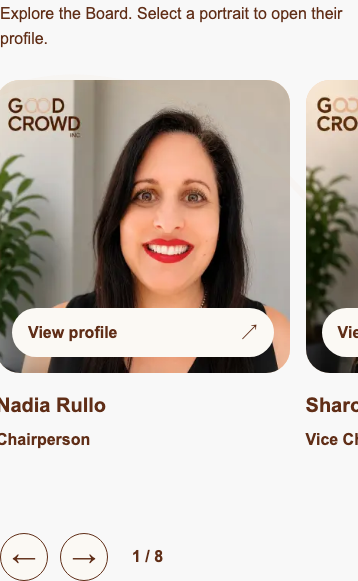
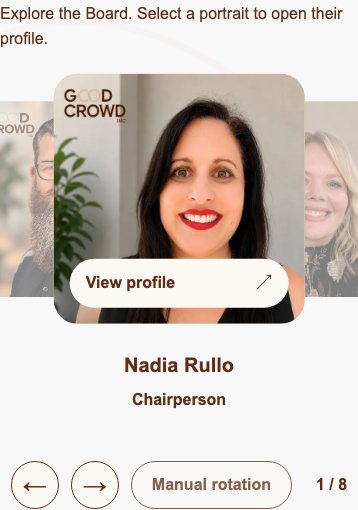
feat: center director carousel and rotate every three seconds

diff --git a/components/sections/board-carousel.tsx b/components/sections/board-carousel.tsx
@@ -1,14 +1,48 @@
 "use client";
 
 import Image from "next/image";
-import { useEffect, useId, useRef, useState } from "react";
+import { useEffect, useId, useRef, useState, useSyncExternalStore } from "react";
 import type { BoardMember } from "@/lib/site-content";
 import styles from "./board-carousel.module.css";
+
+function subscribeReducedMotion(callback: () => void) {
+  const media = window.matchMedia("(prefers-reduced-motion: reduce)");
+  media.addEventListener("change", callback);
+  return () => media.removeEventListener("change", callback);
+}
+const getReducedMotion = () => window.matchMedia("(prefers-reduced-motion: reduce)").matches;
+const getServerReducedMotion = () => true;
 
 export function BoardCarousel({ members }: { members: BoardMember[] }) {
   const [active, setActive] = useState(0);
   const [selected, setSelected] = useState<BoardMember | null>(null);
   const track = useRef<HTMLUListElement>(null);
+  const carousel = useRef<HTMLDivElement>(null);
+  const touchStart = useRef<number | null>(null);
+  const [paused, setPaused] = useState(false);
+  const [hovered, setHovered] = useState(false);
+  const [focused, setFocused] = useState(false);
+  const [inView, setInView] = useState(false);
+  const [pageHidden, setPageHidden] = useState(false);
+  const reducedMotion = useSyncExternalStore(subscribeReducedMotion, getReducedMotion, getServerReducedMotion);
+  const rotating = !paused && !hovered && !focused && !selected && !reducedMotion && inView && !pageHidden;
+
+  useEffect(() => {
+    const observer = new IntersectionObserver(([entry]) => setInView(entry.isIntersecting), { threshold: 0.35 });
+    if (carousel.current) observer.observe(carousel.current);
+    const onVisibility = () => setPageHidden(document.hidden);
+    document.addEventListener("visibilitychange", onVisibility);
+    return () => {
+      observer.disconnect();
+      document.removeEventListener("visibilitychange", onVisibility);
+    };
+  }, []);
+
+  useEffect(() => {
+    if (!rotating || members.length < 2) return;
+    const timer = window.setInterval(() => setActive(index => (index + 1) % members.length), 3000);
+    return () => window.clearInterval(timer);
+  }, [rotating, members.length, active]);
   const dialog = useRef<HTMLDialogElement>(null);
   const opener = useRef<HTMLButtonElement | null>(null);
   const id = useId();
@@ -27,64 +61,81 @@ export function BoardCarousel({ members }: { members: BoardMember[] }) {
   }, [selected]);
 
   function goTo(index: number) {
-    const list = track.current;
-    const card = list?.children[index] as HTMLElement | undefined;
-    if (!list || !card) return;
-    list.scrollTo({
-      left: card.offsetLeft,
-      behavior: window.matchMedia("(prefers-reduced-motion: reduce)").matches ? "instant" : "smooth",
-    });
+    setActive(index);
+  }
+
+  function positionFor(index: number) {
+    if (index === active) return "center";
+    if (index === (active - 1 + members.length) % members.length) return "left";
+    if (index === (active + 1) % members.length) return "right";
+    return "hidden";
   }
 
   if (!members.length) return null;
 
   return (
-    <div className={styles.carousel} role="region" aria-roledescription="carousel" aria-label="Board directors">
+    <div
+      ref={carousel}
+      className={styles.carousel}
+      role="region"
+      aria-roledescription="carousel"
+      aria-label="Board directors"
+      onMouseEnter={() => setHovered(true)}
+      onMouseLeave={() => setHovered(false)}
+      onFocusCapture={() => setFocused(true)}
+      onBlurCapture={(event) => {
+        if (!event.currentTarget.contains(event.relatedTarget)) setFocused(false);
+      }}
+    >
       <p className={styles.hint} id={`${id}-hint`}>Explore the Board. Select a portrait to open their profile.</p>
       <ul
         ref={track}
         id={`${id}-portraits`}
         className={styles.track}
         aria-describedby={`${id}-hint`}
-        onScroll={() => {
-          const list = track.current;
-          if (!list) return;
-          const cards = Array.from(list.children) as HTMLElement[];
-          const closest = cards.reduce((best, card, index) =>
-            Math.abs(card.offsetLeft - list.scrollLeft) < Math.abs(cards[best].offsetLeft - list.scrollLeft) ? index : best, 0);
-          setActive(closest);
+        onTouchStart={(event) => { touchStart.current = event.touches[0].clientX; }}
+        onTouchEnd={(event) => {
+          if (touchStart.current === null) return;
+          const distance = touchStart.current - event.changedTouches[0].clientX;
+          if (Math.abs(distance) > 40) goTo((active + (distance > 0 ? 1 : -1) + members.length) % members.length);
+          touchStart.current = null;
         }}
+        onTouchCancel={() => { touchStart.current = null; }}
         onKeyDown={(event) => {
           if (event.key === "ArrowRight" || event.key === "ArrowLeft" || event.key === "Home" || event.key === "End") {
             event.preventDefault();
             const index = event.key === "Home" ? 0 : event.key === "End" ? members.length - 1 : (active + (event.key === "ArrowRight" ? 1 : -1) + members.length) % members.length;
             goTo(index);
-            (track.current?.children[index]?.querySelector("button") as HTMLButtonElement | null)?.focus({ preventScroll: true });
+            requestAnimationFrame(() => (track.current?.children[index]?.querySelector("button") as HTMLButtonElement | null)?.focus({ preventScroll: true }));
           }
         }}
       >
         {members.map((member, index) => (
-          <li key={member.name} className={styles.card} data-active={index === active}>
+          <li key={member.name} className={styles.card} data-position={positionFor(index)} aria-hidden={positionFor(index) === "hidden"}>
             <button
               type="button"
               className={styles.portrait}
               aria-label={`Open profile for ${member.name}`}
               aria-haspopup="dialog"
+              tabIndex={index === active ? 0 : -1}
               onClick={(event) => { opener.current = event.currentTarget; setSelected(member); }}
             >
-              <Image src={member.image.src} alt={member.image.alt} fill sizes="(max-width: 640px) 82vw, (max-width: 1024px) 50vw, 480px" className={styles.image} />
+              <Image src={member.image.src} alt={member.image.alt} fill sizes="(max-width: 640px) 70vw, 448px" className={styles.image} />
               <span className={styles.openLabel} aria-hidden="true">View profile <span>↗</span></span>
             </button>
-            <h3 className={styles.name}>{member.name}</h3>
-            <p className={styles.role}>{member.role}</p>
-            {member.placeholder && <p className={styles.pending}>Photo coming soon</p>}
           </li>
         ))}
       </ul>
+      <div className={styles.caption} aria-live={rotating ? "off" : "polite"} aria-atomic="true">
+        <h3 className={styles.name}>{members[active].name}</h3>
+        <p className={styles.role}>{members[active].role}</p>
+        {members[active].placeholder && <p className={styles.pending}>Photo coming soon</p>}
+      </div>
       <div className={styles.controls}>
         <button type="button" aria-label="Previous director" aria-controls={`${id}-portraits`} onClick={() => goTo((active - 1 + members.length) % members.length)}>←</button>
         <button type="button" aria-label="Next director" aria-controls={`${id}-portraits`} onClick={() => goTo((active + 1) % members.length)}>→</button>
-        <p role="status" aria-atomic="true" className={styles.count}><span className="sr-only">{members[active].name}, director </span>{active + 1} / {members.length}</p>
+        <button type="button" className={styles.rotation} disabled={reducedMotion} aria-label={paused ? "Resume automatic rotation" : "Pause automatic rotation"} onClick={() => setPaused(value => !value)}>{reducedMotion ? "Manual rotation" : paused ? "Play" : "Pause"}</button>
+        <p aria-live={rotating ? "off" : "polite"} aria-atomic="true" className={styles.count}><span className="sr-only">{members[active].name}, director </span>{active + 1} / {members.length}</p>
       </div>
       <dialog
         ref={dialog}

diff --git a/components/sections/board-carousel.module.css b/components/sections/board-carousel.module.css
@@ -1,8 +1,13 @@
 .carousel { margin-top: 3rem; }
 .hint { margin-bottom: 1.25rem; line-height: 1.6; }
-.track { position: relative; display: flex; align-items: start; gap: 1.5rem; overflow-x: auto; overscroll-behavior-x: contain; scroll-snap-type: x mandatory; padding: .5rem .25rem 1.5rem; margin: 0 -.25rem; list-style: none; scrollbar-color: var(--color-earth) var(--color-sand); scrollbar-width: thin; }
-.track::after { content: ""; flex: 0 0 calc(60% - 1.5rem); }
-.card { flex: 0 0 40%; min-width: 0; scroll-snap-align: start; }
+.track { position: relative; height: clamp(15rem, 42vw, 28rem); margin: 0; padding: 0; list-style: none; isolation: isolate; touch-action: pan-y pinch-zoom; }
+.card { position: absolute; left: 50%; top: 50%; width: min(52%, 28rem); min-width: 0; transform: translate(-50%, -50%); transition: transform 550ms ease, opacity 550ms ease; }
+.card[data-position="center"] { z-index: 3; opacity: 1; }
+.card[data-position="left"] { z-index: 2; opacity: .5; transform: translate(-122%, -50%) scale(.8); }
+.card[data-position="right"] { z-index: 2; opacity: .5; transform: translate(22%, -50%) scale(.8); }
+.card[data-position="hidden"] { visibility: hidden; pointer-events: none; opacity: 0; transform: translate(-50%, -50%) scale(.65); }
+.card:not([data-position="center"]) .openLabel { visibility: hidden; }
+.caption { text-align: center; min-height: 7rem; padding-top: .5rem; }
 .portrait { position: relative; display: block; width: 100%; aspect-ratio: 1; overflow: hidden; border-radius: 1.5rem; background: var(--color-sand); border: 0; cursor: zoom-in; }
 .image { object-fit: contain; transition: transform 300ms ease; }
 .portrait:hover .image, .portrait:focus-visible .image { transform: scale(1.015); }
@@ -10,10 +15,12 @@
 .name { font-size: clamp(1.25rem, 2vw, 1.75rem); font-weight: 900; line-height: 1.2; margin-top: 1.25rem; }
 .role { margin-top: .65rem; font-weight: 700; }
 .pending { margin-top: .75rem; font-size: .875rem; }
-.controls { display: flex; align-items: center; gap: .75rem; margin-top: 1.5rem; }
+.controls { display: flex; align-items: center; gap: .75rem; margin-top: 1.5rem; justify-content: center; flex-wrap: wrap; }
 .controls button, .close { display: grid; place-items: center; width: 3rem; height: 3rem; border: 1px solid var(--color-brown); border-radius: 50%; background: var(--color-cream); color: var(--color-brown); cursor: pointer; font-size: 1.5rem; }
 .controls button:hover, .close:hover { background: var(--color-sand); }
 .carousel button:focus-visible { outline: 3px solid var(--color-brown); outline-offset: 4px; }
+.controls .rotation { width: auto; padding-inline: 1.25rem; border-radius: 100px; font-size: 1rem; font-weight: 700; }
+.controls .rotation:disabled { cursor: default; opacity: .75; }
 .count { margin-left: .75rem; font-weight: 800; font-variant-numeric: tabular-nums; }
 .dialog { width: min(960px, calc(100% - 2rem)); max-height: calc(100dvh - 2rem); margin: auto; padding: 0; border: 0; border-radius: 1.5rem; overflow-y: auto; background: var(--color-cream); color: var(--color-brown); box-shadow: var(--shadow-lifted); }
 .dialog::backdrop { background: rgb(40 21 14 / .8); }
@@ -25,14 +32,14 @@
 .biography h2 { margin-top: 1.25rem; font-size: clamp(2rem, 4vw, 3.5rem); }
 .bio { margin-top: 2rem; line-height: 1.8; }
 .bio p + p { margin-top: 1rem; }
-@media (max-width: 1024px) { .card { flex-basis: 50%; } .track::after { flex-basis: calc(50% - 1.5rem); } }
 @media (max-width: 640px) {
-  .card { flex-basis: 82%; }
-  .track { gap: 1rem; }
-  .track::after { flex-basis: calc(18% - 1rem); }
+  .track { height: clamp(13rem, 65vw, 26rem); }
+  .card { width: 70%; }
+  .card[data-position="left"] { transform: translate(-95%, -50%) scale(.78); }
+  .card[data-position="right"] { transform: translate(-5%, -50%) scale(.78); }
   .panel { grid-template-columns: 1fr; }
   .modalPortrait { min-height: 0; aspect-ratio: 1; }
   .biography { padding: 2rem 1.5rem; }
   .biography h2 { font-size: 2.25rem; }
 }
-@media (prefers-reduced-motion: reduce) { .image { transition: none; } .portrait:hover .image, .portrait:focus-visible .image { transform: none; } }
+@media (prefers-reduced-motion: reduce) { .image, .card { transition: none; } .portrait:hover .image, .portrait:focus-visible .image { transform: none; } }

diff --git a/docs/qa/director-profiles/README.md b/docs/qa/director-profiles/README.md
@@ -1,6 +1,6 @@
 # Director profile verification — 22 October 2026
 
-Validated against a local Next.js production build, served on port 3100.
+Validated against a local Next.js production build, served on port 3101.
 
 - `npm run lint`: passed.
 - `npm run typecheck`: passed.
@@ -10,10 +10,18 @@ Validated against a local Next.js production build, served on port 3100.
   open, portrait images decode, empty bios show their pending message, close
   receives focus, Tab stays within the dialog, Escape closes, focus returns to
   the opener and page scroll is restored.
+- Initial composition checked at all four widths: Chairperson centred, director 8
+  behind left, director 2 behind right, exactly three visible portraits, and
+  smaller side portraits at 50% opacity. Centre alignment verified geometrically.
 - Previous/next navigation and wraparound passed at all four widths with
-  reduced motion enabled. No horizontal page overflow or browser runtime errors.
-- Normal-motion navigation, Home/End/Right arrow/Enter, close-button and backdrop
-  dismissal were checked separately on desktop.
+  reduced motion enabled. Keyboard navigation and simulated touch-swipe handlers
+  passed. No horizontal page overflow or browser runtime errors.
+- Browser clock checks: no change before 3 seconds, advance at 3 seconds,
+  all eight automatic rotations wrap to the Chairperson, hover pauses and exit
+  resumes, Pause/Play works, focus and an open profile suspend rotation, and
+  switching to reduced motion stops automatic rotation.
+- Popup close-button/backdrop dismissal was checked in the original feature;
+  this revision rechecked all eight popup profiles with Escape and focus restore.
 - Screenshots: `board-{width}.png` and `profile-{width}.png`.
 
 This is browser emulation, not physical-device or screen-reader testing.

diff --git a/docs/content/DIRECTOR_PROFILES.md b/docs/content/DIRECTOR_PROFILES.md
@@ -25,8 +25,20 @@ is preserved. Bronwyn's supplied illustration remains explicitly marked as a
 photo placeholder. Matt's new supplied portrait replaces his old placeholder.
 The homepage founder portraits use the same new Tamara and Sarah images.
 
-The carousel supports native horizontal touch/trackpad scrolling, previous/next
-buttons with wraparound, and Left/Right/Home/End keys while a profile button is
-focused. Enter/Space opens the profile. The modal supports Escape, its close
-button and backdrop dismissal, locks page scrolling and restores opener focus.
-Reduced motion disables animated scrolling and portrait hover transforms.
+The carousel starts with the Chairperson (director 1) centred at full opacity.
+Director 8 sits smaller behind on the left and director 2 behind on the right,
+both at 50% opacity. Each rotation brings the next director to the centre and
+wraps continuously from 8 back to 1.
+
+Automatic rotation advances every 3 seconds while the carousel is in view.
+Pause/Play controls provide an explicit stop/resume choice. Rotation also pauses
+on mouse hover, keyboard focus, an open profile, a hidden browser tab or when
+the carousel is outside the viewport. Reduced-motion users receive manual
+navigation with no carousel transitions or hover scaling. Autoplay changes are
+not announced by live regions.
+
+Previous/next buttons wrap in both directions. Horizontal touch swipes move one
+director; vertical page scrolling remains available. Left/Right/Home/End keys
+work while the central profile button is focused. Enter/Space opens the profile.
+The modal supports Escape, its close button and backdrop dismissal, locks page
+scrolling and restores opener focus. Biographies remain plain-text paragraphs.
